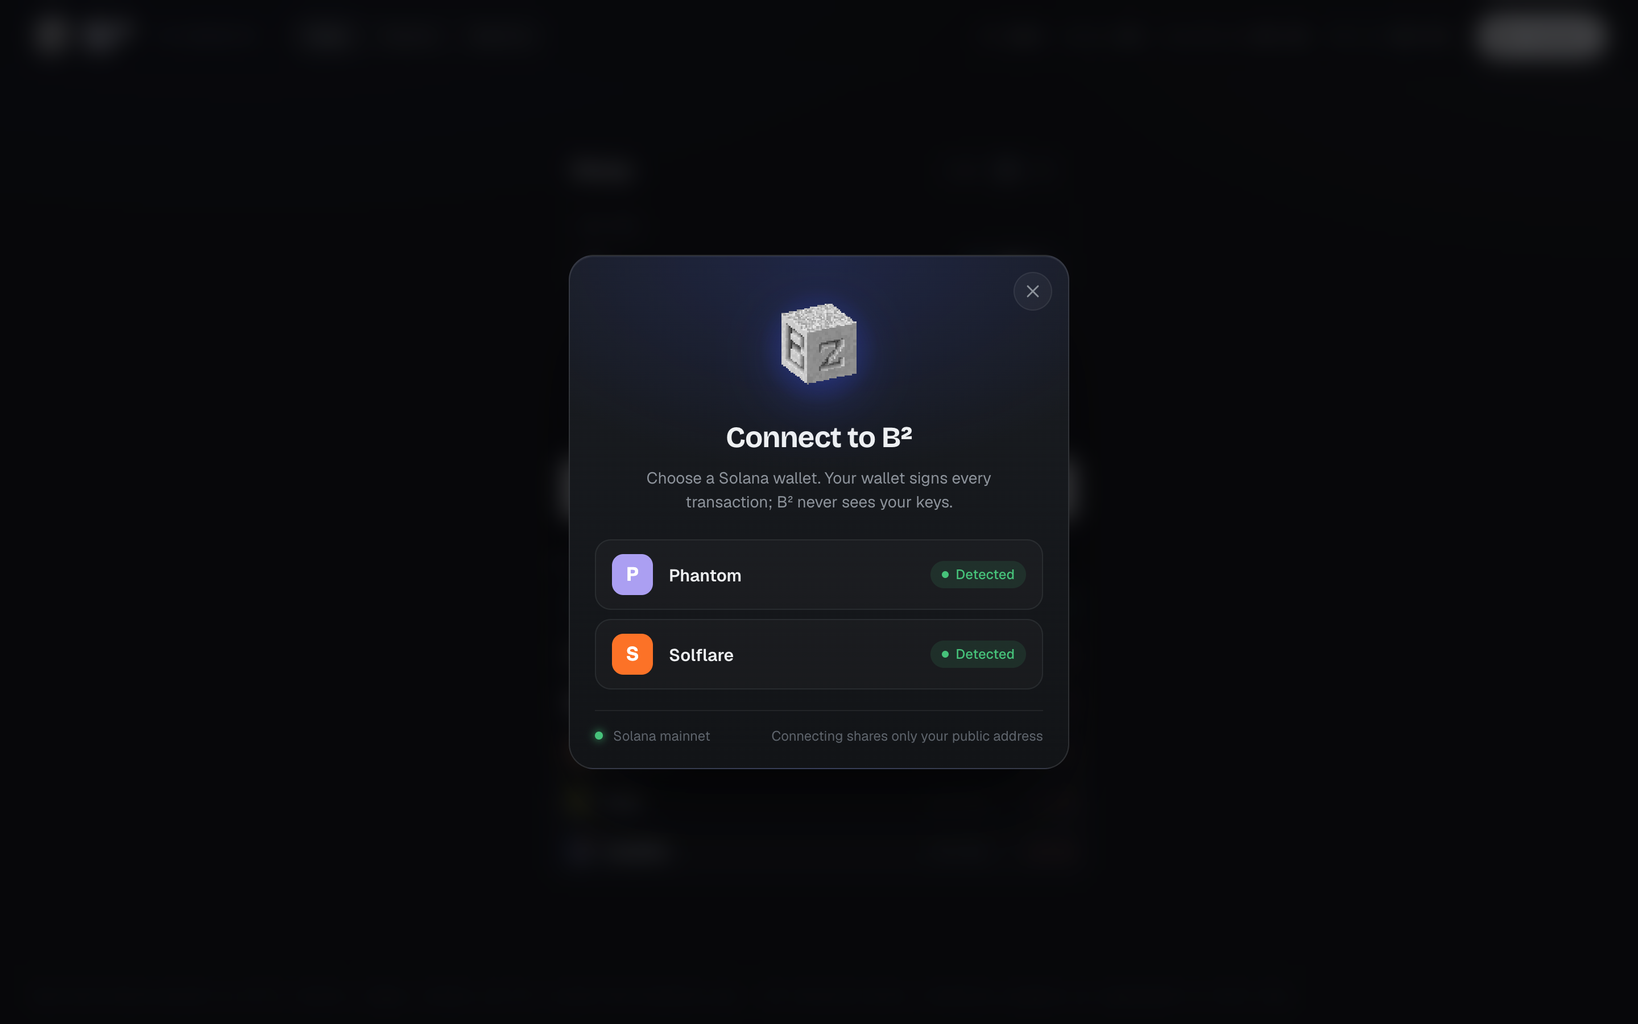
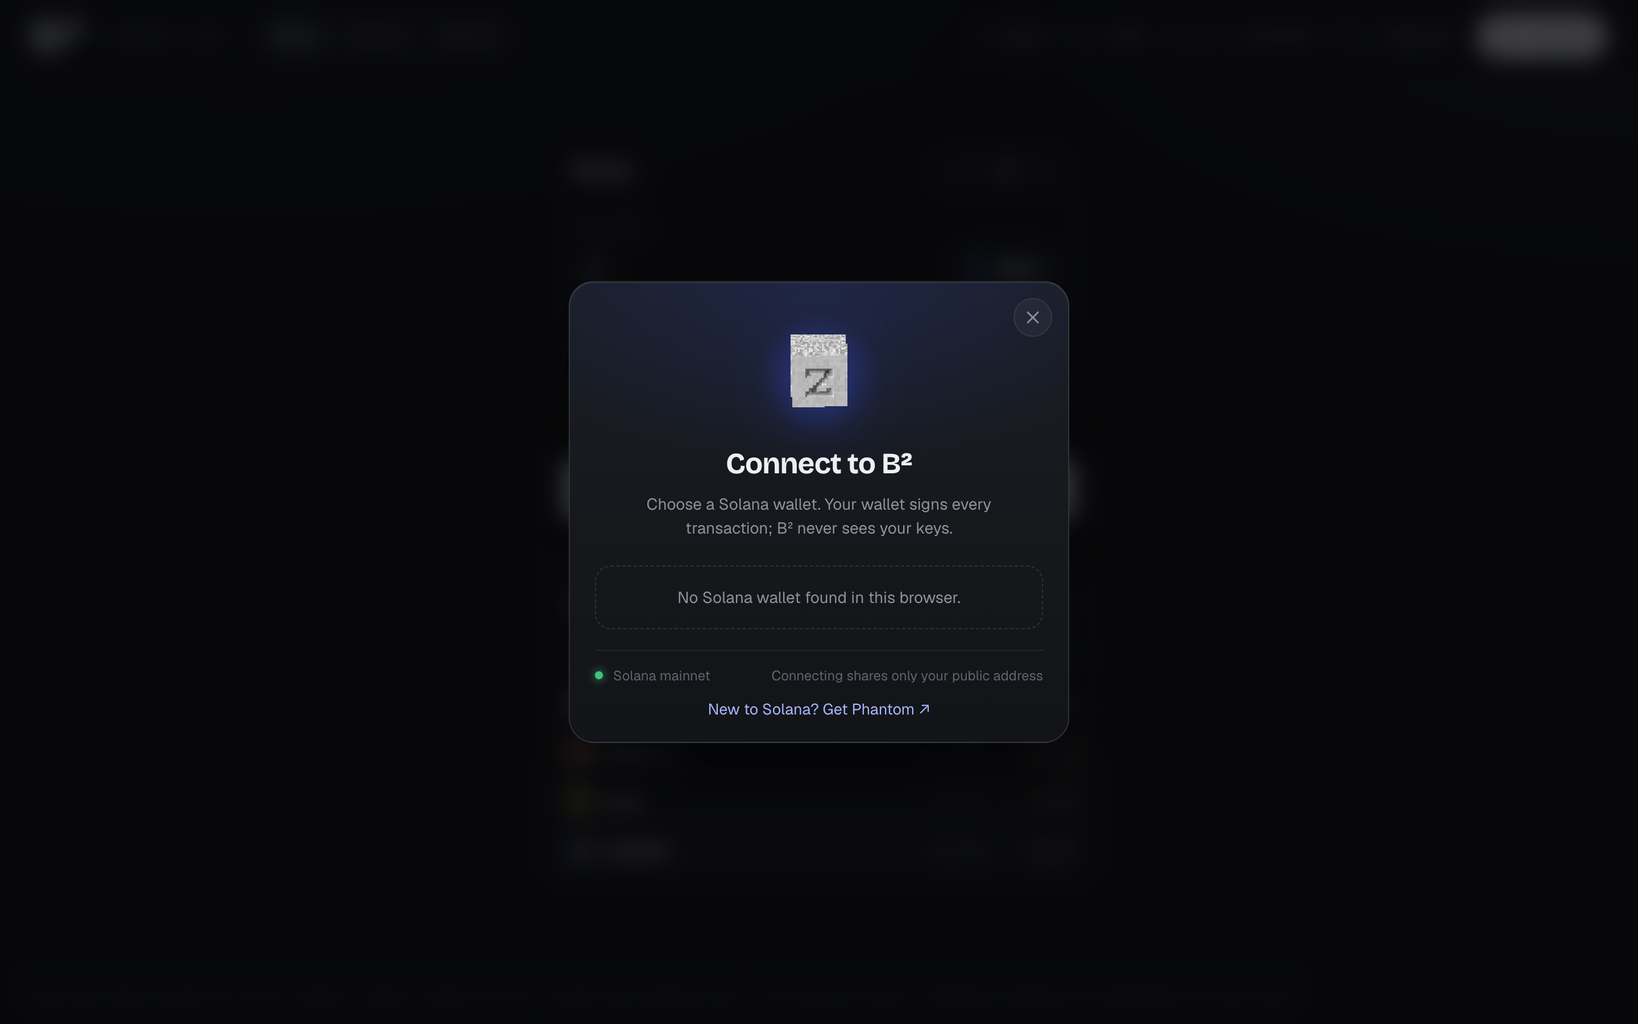
Bordrless swap: share card, GitHub link, swap-first README
- The share card: og.png (1200x630) and Open Graph and X tags for bordrswap.vercel.app, with the
  title, a description and the image.
- An "Open source on GitHub" link in the footer's corner.
- Bordrless swap as the lead: the page title and header, the wordmark alone in the header (the cube
  appears on Connect and in the wallet box), the README led by the swap with fresh screenshots and a
  token page.

Claude-Session: https://claude.ai/code/session_013yRJukaEh94DENhGaGXhU1

diff --git a/apps/web/index.html b/apps/web/index.html
@@ -3,9 +3,25 @@
   <head>
     <meta charset="UTF-8" />
     <meta name="viewport" content="width=device-width, initial-scale=1.0" />
-    <title>B² · Bordrless swap and scanner</title>
+    <title>B² · Swap every Bordrless token</title>
     <link rel="icon" href="/b2.svg" />
     <meta name="theme-color" content="#0b0c0e" />
+    <meta name="description" content="Swap any Bordrless token on Solana through the best pool, every fee shown before you sign. A live scanner and machine view of every coin. Open source." />
+    <link rel="canonical" href="https://bordrswap.vercel.app/" />
+    <meta property="og:type" content="website" />
+    <meta property="og:site_name" content="B²" />
+    <meta property="og:url" content="https://bordrswap.vercel.app/" />
+    <meta property="og:title" content="B² · Swap every Bordrless token" />
+    <meta property="og:description" content="Any token to any token through the best pool, every fee shown before you sign. A live scanner and machine view of every coin. Open source." />
+    <meta property="og:image" content="https://bordrswap.vercel.app/og.png" />
+    <meta property="og:image:width" content="1200" />
+    <meta property="og:image:height" content="630" />
+    <meta property="og:image:alt" content="B²: swap every Bordrless token. A swap quoting 1 SOL into a Bordrless coin, with every fee on the way." />
+    <meta name="twitter:card" content="summary_large_image" />
+    <meta name="twitter:title" content="B² · Swap every Bordrless token" />
+    <meta name="twitter:description" content="Any token to any token through the best pool, every fee shown before you sign. A live scanner and machine view of every coin." />
+    <meta name="twitter:image" content="https://bordrswap.vercel.app/og.png" />
+    <meta name="twitter:image:alt" content="B²: swap every Bordrless token." />
     <link rel="preconnect" href="https://fonts.googleapis.com" />
     <link rel="preconnect" href="https://fonts.gstatic.com" crossorigin />
     <link href="https://fonts.googleapis.com/css2?family=Bricolage+Grotesque:opsz,wdth,wght@12..96,75..100,400..800&family=Geist:wght@400;500;600;700&family=IBM+Plex+Mono:wght@400;500;600&display=swap" rel="stylesheet" />

diff --git a/apps/web/src/App.tsx b/apps/web/src/App.tsx
@@ -48,7 +48,7 @@ export function App() {
               <header className="top">
                 <NavLink to="/" className="brand">
                   <Logo />
-                  <small>on Bordrless</small>
+                  <small>Bordrless swap</small>
                 </NavLink>
                 <nav className="nav">
                   <NavLink to="/" end>
@@ -72,6 +72,12 @@ export function App() {
               <footer className="foot">
                 <span>Read from Solana mainnet by the B² indexer; images, holders and 24 h volume from bordrless.app.</span>
                 <span>Not financial advice. Bordrless programs are upgradeable by their team.</span>
+                <a className="foot-gh" href="https://github.com/cloutprotocol/B2" target="_blank" rel="noopener noreferrer">
+                  <svg viewBox="0 0 16 16" width="14" height="14" fill="currentColor" aria-hidden="true">
+                    <path d="M8 0C3.58 0 0 3.58 0 8c0 3.54 2.29 6.53 5.47 7.59.4.07.55-.17.55-.38 0-.19-.01-.82-.01-1.49-2.01.37-2.53-.49-2.69-.94-.09-.23-.48-.94-.82-1.13-.28-.15-.68-.52-.01-.53.63-.01 1.08.58 1.23.82.72 1.21 1.87.87 2.33.66.07-.52.28-.87.51-1.07-1.78-.2-3.64-.89-3.64-3.95 0-.87.31-1.59.82-2.15-.08-.2-.36-1.02.08-2.12 0 0 .67-.21 2.2.82.64-.18 1.32-.27 2-.27.68 0 1.36.09 2 .27 1.53-1.04 2.2-.82 2.2-.82.44 1.1.16 1.92.08 2.12.51.56.82 1.27.82 2.15 0 3.07-1.87 3.75-3.65 3.95.29.25.54.73.54 1.48 0 1.07-.01 1.93-.01 2.2 0 .21.15.46.55.38A8.013 8.013 0 0016 8c0-4.42-3.58-8-8-8z" />
+                  </svg>
+                  Open source on GitHub
+                </a>
               </footer>
             </div>
           </MarketProvider>

diff --git a/apps/web/src/components/Logo.tsx b/apps/web/src/components/Logo.tsx
@@ -1,6 +1,6 @@
-// The B² mark: the spinning cube from the film beside a cut wordmark: a heavy geometric B drawn as
-// paths (no font to wait for), sliced on the diagonal with its lower half slipped along the cut, a
-// spot-blue hairline in the cut, and the ² set in a block.
+// The B² mark: a cut wordmark, a heavy geometric B drawn as paths (no font to wait for), sliced on the
+// diagonal with its lower half slipped along the cut, a spot-blue hairline in the cut, and the ² set in
+// a block. The spinning cube from the film appears once per screen: on Connect and in the wallet box.
 
 export function Cube({ size = 36, big }: { size?: number; big?: boolean }) {
   return <img src={big ? '/b2-cube.gif' : '/b2-cube-160.gif'} width={size} height={size} alt="" className="cube" />;
@@ -38,8 +38,7 @@ export function Wordmark({ height = 30 }: { height?: number }) {
 export function Logo() {
   return (
     <span className="logo">
-      <Cube size={38} />
-      <Wordmark height={26} />
+      <Wordmark height={28} />
     </span>
   );
 }

diff --git a/apps/web/src/pages/Machine.tsx b/apps/web/src/pages/Machine.tsx
@@ -4,7 +4,6 @@ import { usePoll, type MachineData, type Trade } from '../api';
 import { age, compact, short, sol } from '../format';
 import { SwapCard, type Swapped } from '../components/SwapCard';
 import { TokenIcon } from '../components/TokenIcon';
-import { Cube } from '../components/Logo';
 
 // The machine view, live, for any token: its latest trades on the chart, and every trade's money
 // running to where the coin's rules send it (the hook, the creator fee, holders, the burn, its
@@ -558,7 +557,7 @@ export function MachinePage() {
   return (
     <div>
       <div className="machine-hero">
-        {t.b2 ? <Cube size={64} big /> : <TokenIcon src={t.image} symbol={t.symbol} size={56} />}
+        <TokenIcon src={t.image} symbol={t.symbol} size={56} />
         <div>
           <h1>
             {t.name} <span className="muted" style={{ fontWeight: 500 }}>machine</span>

diff --git a/apps/web/src/styles.css b/apps/web/src/styles.css
@@ -64,6 +64,9 @@ input { font: inherit; color: inherit; }
 .ticker b { color: var(--ink-2); font-weight: 500; }
 main { flex: 1; padding: 28px; width: 100%; max-width: 1480px; margin: 0 auto; }
 .foot { padding: 18px 28px; border-top: 1px solid var(--line); font-family: var(--mono); font-size: 11px; color: var(--soft); display: flex; gap: 16px; flex-wrap: wrap; }
+/* the repo, in the footer's bottom-right corner */
+.foot-gh { margin-left: auto; display: inline-flex; align-items: center; gap: 7px; color: var(--ink-2); text-decoration: none; }
+.foot-gh:hover { color: var(--ink); }
 
 /* Wallet button in the house style. */
   background: var(--ink) !important; color: #0b0c0e !important; font-weight: 600 !important; }

diff --git a/README.md b/README.md
@@ -4,23 +4,24 @@
 
 # B²
 
-**A Bordrless Workshop pair that turns every trade into BORDR liquidity, and the open-source app around it:
-a swap for the whole Bordrless ecosystem, a market scanner, and a live machine view of every coin's rules.**
+**The swap for the whole Bordrless ecosystem. Any token to any token, routed across every pool and built
+with the Bordrless SDK, with a market scanner and a live machine view of every coin beside it. B², our
+Workshop pair that turns trades into BORDR liquidity, is part of it.**
 
 [![License: MIT](https://img.shields.io/badge/license-MIT-3b55ff.svg)](LICENSE)
-[![Solana mainnet](https://img.shields.io/badge/Solana-mainnet-14f195.svg)](https://solscan.io/account/5HZP9Nn6ScGzduvsadvDEUuZnz5Xz7yynzxuxPRHmnre)
-[![Bordrless Workshop](https://img.shields.io/badge/Bordrless-Workshop%20pair-8a9bff.svg)](https://bordrless.app)
-[![Anchor 1.2](https://img.shields.io/badge/Anchor-1.2-eef0f2.svg)](programs/b2)
+[![Solana mainnet](https://img.shields.io/badge/Solana-mainnet-14f195.svg)](https://bordrless.app)
+[![Bordrless DEX](https://img.shields.io/badge/Bordrless-DEX%20and%20router-8a9bff.svg)](packages/core/src/route.ts)
 [![TypeScript](https://img.shields.io/badge/TypeScript-5.6-3178c6.svg)](packages/core)
 [![Node 22+](https://img.shields.io/badge/node-%E2%89%A522-46c27a.svg)](package.json)
+[![Anchor 1.2](https://img.shields.io/badge/Anchor-1.2-eef0f2.svg)](programs/b2)
 
 [![Deploy with Vercel](https://vercel.com/button)](https://vercel.com/new/clone?repository-url=https%3A%2F%2Fgithub.com%2Fcloutprotocol%2FB2&env=B2_RPC&envDescription=A%20Solana%20mainnet%20RPC%20URL%20that%20serves%20getProgramAccounts&project-name=b2)
 
 <br />
 
-<img src="docs/media/machine.png" alt="The B² machine view: live trades on the chart flowing into the hook, the creator fee and the companion's pot" width="100%" />
+<img src="docs/media/swap.png" alt="The B² swap: 1 SOL quoted into a Bordrless coin, with the route, every fee on the way, price impact and the minimum received" width="100%" />
 
-<sub>The machine view: every trade's money, live from chain, running to where the coin's rules send it.</sub>
+<sub>Every quote shows its route, each fee on the way (a coin's hook included), price impact and the minimum received.</sub>
 
 </div>
 
@@ -28,75 +29,77 @@ a swap for the whole Bordrless ecosystem, a market scanner, and a live machine v
 
 ## Contents
 
-- [What B² is](#what-b-is)
-- [How the pair works](#how-the-pair-works)
+- [What it is](#what-it-is)
+- [How swaps work](#how-swaps-work)
 - [The app](#the-app)
 - [Architecture](#architecture)
 - [Quick start](#quick-start)
 - [Configuration](#configuration)
 - [Deploy](#deploy)
 - [How it reads the chain](#how-it-reads-the-chain)
-- [Swaps](#swaps)
-- [The program](#the-program)
+- [The B² pair](#the-b-pair)
 - [Project layout](#project-layout)
 - [Security model](#security-model)
 - [Contributing](#contributing)
 - [License](#license)
 
-## What B² is
+## What it is
 
-[Bordrless](https://bordrless.app) is a Solana launchpad and DEX where a coin can carry a **hook** (rules that run on
-every trade) and a **companion script** (a program that acts for the coin on a schedule). Together they make a
-Workshop **pair**.
-
-B² is such a pair. It takes a 1% SOL cut on every curve trade, buys the coin with it under a price guard, and at
-graduation seeds two pools with the LP locked inside the launch: coin/SOL and coin/wBORDR. Every B² coin that
-graduates adds permanent BORDR liquidity.
-
-This repository holds the pair itself and everything we built around it, all of it open source:
+[Bordrless](https://bordrless.app) is a Solana launchpad and DEX with its own token standard, where a coin can carry a
+**hook** (rules that run on every trade) and a **companion script** (a program that acts for the coin on a schedule).
+Bordrless ships a launchpad; this is the trading layer for everything on it:
 
 | | |
 | --- | --- |
-| **The pair** | the hook and companion script, as submitted to the Workshop and deployed on mainnet, with LiteSVM tests against the real Bordrless programs |
-| **The indexer** | a server that reads the whole Bordrless market from chain, enriches it, prepares swaps and proxies wallet RPC |
-| **The app** | Swap, Scanner, token pages and the Machine view, for any Bordrless coin, not only B² |
+| **The swap** | any Bordrless token to any other: every curve and pool, one hop through a shared token when no pool joins the two, hooks and wrapping resolved, and an optional integrator fee through Bordrless's router |
+| **The scanner** | every token and pool on the DEX, read from chain: price, market cap, liquidity, volume, holders, curve progress |
+| **The machine view** | any coin's rules drawn live: where each trade's money goes, with a trade box to watch your own run through it |
+| **The B² pair** | our Workshop hook and companion: a 1% SOL cut on every curve trade that buys the coin and, at graduation, seeds coin/SOL and coin/wBORDR with the LP locked |
+| **The indexer** | the server behind it all: reads the market, prepares swaps and proxies wallet RPC so the RPC key stays server-side |
 
-## How the pair works
+## How swaps work
 
-```mermaid
-flowchart LR
-    T[Every curve trade] -->|1% SOL cut| H[B² hook]
-    H --> P[(Pot)]
-    P -->|every 60 s, under the +3% guard| B[Companion buys the coin]
-    B --> C[(Held coin)]
-    D{Price over 15% under<br/>its 6 h reference?} -.->|buys pay 0%, sells 3%| H
-    P & C -->|at graduation| G[coin/SOL and coin/wBORDR<br/>LP locked in the launch]
-```
+Any token to any token (`packages/core/src/route.ts`, served as `/api/route/quote` and `/api/route/prepare`):
 
-- **The cut.** The hook takes 1% of every curve trade, in SOL, into the companion's pot.
-- **The buy.** Every 60 seconds the companion steps. Before graduation it buys and holds the coin, dips first, and
-  only while the price is under its one-hour reference plus 3%, so it never chases a pump. At most half the pot
-  goes on buys.
-- **Dip Buy.** When the price falls more than 15% under its six-hour reference, buyers pay no hook fee and sellers
-  pay 3%, which leans the curve toward recovery.
-- **Graduation.** The pot and the held coin seed coin/SOL and coin/wBORDR, with the LP locked in the launch for
-  good.
+- **Routes.**
+  - Every direct pool, and every path through one token both sides trade against (SOL, wBORDR, anything). The best
+    output wins.
+  - A two-leg route is one transaction when it fits in 1,232 bytes; otherwise one per leg, signed as a batch. The
+    second leg spends what the first is sure to deliver.
+- **Legs**, all built here with the SDK:
+  - a launch's curve or pool, through its launch keys (kit, custom hook and SOL cut resolved);
+  - any other pool, with each side's token hook and its pool hook resolved;
+  - a pool quoted in bridged SOL, which wraps the input and unwraps what it delivers.
+- **Quotes.**
+  - Constant product on each pool's books, with that side's fees. For a launch: its whole buy or sell fee plus its
+    hook's cut from the Workshop reading. For a pool: its LP and protocol fee.
+  - Slippage sets each leg's minimum, which also protects a trade through a hook that publishes no reading.
+- **The router fee** (optional, `B2_FEE_WALLET`).
+  - The leg that moves SOL goes through Bordrless's router: a buy pays from its input, a sell from the SOL it
+    delivers.
+  - Native pools pay it in SOL. Pools quoted in bridged SOL pay it in bridged SOL, once the fee wallet has a bridged
+    SOL holding.
+- **Fallback.** If a single launch leg can't be built here, Bordrless's own `/api/swap/prepare` builds it.
 
-The first B² coin is
-[`4iWwcHf9…bps6H7J`](https://solscan.io/token/4iWwcHf9tH6J6UjRgG9rXosXVxNdcKUFuqh1rbps6H7J).
+`packages/core/scripts/simulate-routes.ts` builds real routes and simulates them on mainnet for wallets that can
+afford them: launches with every kind of rule (a kit, a burn, a game hook, a custom hook, B²'s pair), plain pools,
+pools quoted in bridged SOL, another program's curve, and a token-to-token route through SOL, with and without the
+router fee.
 
 ## The app
 
-| Machine | Scanner |
+| Scanner | Token |
 | --- | --- |
-| <img src="docs/media/machine.png" alt="Machine view" /> | <img src="docs/media/scanner.png" alt="Scanner" /> |
-| **Swap** | **Connect** |
-| <img src="docs/media/swap.png" alt="Swap" /> | <img src="docs/media/connect.png" alt="Wallet connect" /> |
+| <img src="docs/media/scanner.png" alt="Scanner" /> | <img src="docs/media/token.png" alt="A token page with its chart, trades and a trade box" /> |
+| **Machine** | **Connect** |
+| <img src="docs/media/machine.png" alt="Machine view" /> | <img src="docs/media/connect.png" alt="Wallet connect" /> |
 
 - **Swap.** Any Bordrless token to any other, routed through the best direct pool or one hop. Quotes and
-  transactions are built here with the Bordrless SDK, and the wallet signs.
+  transactions are built here with the Bordrless SDK, and the wallet signs. Every page that shows a token can trade
+  it.
 - **Scanner.** Every token and pool on the Bordrless DEX: price, market cap, liquidity, 24 h volume, holders, curve
   progress. Filter by curve, graduated, B², custom hooks or bridged tokens.
+- **Token pages.** A chart, the latest trades, the coin's fees, hook and pools, and a trade box beside them.
 - **Machine.** Any coin's rules drawn as a machine: its last 40 trades on the chart, and every trade's money running
   to the hook, the creator fee, holders, the burn and its companion. B² coins add the pot, its floor and the held
   coin. Your own trades join the drawing as soon as they confirm. On a phone it reflows into a tall layout.
@@ -151,7 +154,7 @@ npm run dev               # indexer on :8787, web on http://localhost:5173
 | --- | --- | --- | --- |
 | `B2_RPC` | yes | | Solana mainnet RPC URL. It must serve `getProgramAccounts` and version 1 transactions. |
 | `PORT` | | `8787` | The indexer's port (server mode). |
-| `B2_FEE_WALLET` | | | Turns on the router's integrator fee, paid to this wallet. It must hold rent (about 0.001 SOL). |
+| `B2_FEE_WALLET` | | | Turns on the router's integrator fee, paid to this wallet. It must hold rent (about 0.001 SOL); pools quoted in bridged SOL carry it once the wallet has a bridged SOL holding. |
 | `B2_FEE_BPS` | | `50` | The integrator fee, 1 to 100 basis points. Bordrless keeps a fifth. |
 | `B2_INDEXER` | | `http://localhost:8787` | Where the Vite dev server proxies `/api` and `/rpc`. |
 
@@ -189,33 +192,32 @@ and `/rpc` routed to it.
 - **From bordrless.app/api** (public, no key): images, holders, 24 h volume and change, the rules, candles and
   trades.
 
-## Swaps
+## The B² pair
 
-Any token to any token (`packages/core/src/route.ts`, served as `/api/route/quote` and `/api/route/prepare`):
+B² is the Workshop pair we built and Bordrless deployed. The swap trades its coins like any other, showing the hook's
+cut in the quote, and the machine view draws its pot, floor and held coin.
 
-- **Routes.**
-  - Every direct pool, and every path through one token both sides trade against (SOL, wBORDR, anything). The best
-    output wins.
-  - A two-leg route is one transaction when it fits in 1,232 bytes; otherwise one per leg, signed as a batch. The
-    second leg spends what the first is sure to deliver.
-- **Legs**, all built here with the SDK:
-  - a launch's curve or pool, through its launch keys (kit, custom hook and SOL cut resolved);
-  - any other pool, with each side's token hook and its pool hook resolved;
-  - a pool quoted in bridged SOL, which wraps the input and unwraps what it delivers.
-- **Quotes.**
-  - Constant product on each pool's books, with that side's fees. For a launch: its whole buy or sell fee plus its
-    hook's cut from the Workshop reading. For a pool: its LP and protocol fee.
-  - Slippage sets each leg's minimum, which also protects a trade through a hook that publishes no reading.
-- **The router fee** (optional, `B2_FEE_WALLET`).
-  - The leg that moves SOL goes through Bordrless's router: a buy pays from its input, a sell from the SOL it
-    delivers.
-  - Native pools pay it in SOL. Pools quoted in bridged SOL pay it in bridged SOL, once the fee wallet has a bridged
-    SOL holding.
-- **Fallback.** If a single launch leg can't be built here, Bordrless's own `/api/swap/prepare` builds it.
+```mermaid
+flowchart LR
+    T[Every curve trade] -->|1% SOL cut| H[B² hook]
+    H --> P[(Pot)]
+    P -->|every 60 s, under the +3% guard| B[Companion buys the coin]
+    B --> C[(Held coin)]
+    D{Price over 15% under<br/>its 6 h reference?} -.->|buys pay 0%, sells 3%| H
+    P & C -->|at graduation| G[coin/SOL and coin/wBORDR<br/>LP locked in the launch]
+```
 
-`packages/core/scripts/simulate-routes.ts` builds real routes and simulates them on mainnet.
+- **The cut.** The hook takes 1% of every curve trade, in SOL, into the companion's pot.
+- **The buy.** Every 60 seconds the companion steps. Before graduation it buys and holds the coin, dips first, and
+  only while the price is under its one-hour reference plus 3%, so it never chases a pump. At most half the pot
+  goes on buys.
+- **Dip Buy.** When the price falls more than 15% under its six-hour reference, buyers pay no hook fee and sellers
+  pay 3%, which leans the curve toward recovery.
+- **Graduation.** The pot and the held coin seed coin/SOL and coin/wBORDR, with the LP locked in the launch for
+  good.
 
-## The program
+The first B² coin is
+[`4iWwcHf9…bps6H7J`](https://solscan.io/token/4iWwcHf9tH6J6UjRgG9rXosXVxNdcKUFuqh1rbps6H7J).
 
 | | Mainnet |
 | --- | --- |
@@ -228,11 +230,11 @@ build under. Build, test and the Workshop's source rules: [`programs/b2/README.m
 ## Project layout
 
 ```
-programs/b2       the Workshop pair (Rust, Anchor 1.2): hook/, script/, submission/, LiteSVM tests/, fixtures/
-packages/core     chain reads: pools, mints, launches, bridged tokens, B²'s state, routing
+packages/core     routing and chain reads: route.ts (quotes, legs, the router fee), pools, mints, launches, B²'s state
 apps/indexer      app.ts (the API and the RPC proxy), main.ts (server), vercel.ts (function)
 apps/web          Swap, Scanner, token pages, Machine view, wallet connect (React, Vite)
 scripts           dev.mjs (both apps), vercel-build.mjs, fix-bordrless-packages.mjs
+programs/b2       the B² pair (Rust, Anchor 1.2): hook/, script/, submission/, LiteSVM tests/, fixtures/
 docs/media        the screenshots in this README
 ```
 
@@ -247,7 +249,7 @@ docs/media        the screenshots in this README
     that scans.
 - **Trust.**
   - Bordrless programs are upgradeable by their team.
-  - The pair's numbers (the cut, the guard, Dip Buy) are fixed in its deployed code.
+  - The B² pair's numbers (the cut, the guard, Dip Buy) are fixed in its deployed code.
   - Nothing here is financial advice.
 
 To report a vulnerability, see [SECURITY.md](SECURITY.md).

diff --git a/SECURITY.md b/SECURITY.md
@@ -7,7 +7,7 @@ Please report vulnerabilities privately through GitHub's
 public issue.
 
 Include:
-- what is affected (the program, the indexer or the web app);
+- what is affected (the swap's routing and transaction building, the indexer, the web app, or the B² pair);
 - how to reproduce it;
 - the impact you expect.
 
@@ -16,9 +16,10 @@ We'll acknowledge the report, work on a fix, and credit you if you'd like.
 ## Scope
 
 - **In scope:**
-  - `programs/b2`, the hook and companion script;
+  - the swap: routing, quotes and the transactions `packages/core` builds;
   - the indexer's API and its RPC proxy;
-  - the web app's transaction building and wallet flow.
+  - the web app's wallet flow;
+  - `programs/b2`, the B² hook and companion script.
 - **Out of scope:** the Bordrless programs themselves (report those to Bordrless), third-party wallets, and RPC
   providers.
 

diff --git a/CONTRIBUTING.md b/CONTRIBUTING.md
@@ -10,7 +10,10 @@ npm install               # Node 22+
 npm run dev               # indexer on :8787, web on http://localhost:5173
 ```
 
-The program (`programs/b2`) has its own toolchain (Rust, Anchor 1.2, Agave's `cargo build-sbf`); see
+Swap changes can be checked against mainnet without signing: `B2_RPC=<url> npx tsx packages/core/scripts/simulate-routes.ts`
+simulates real routes for wallets that can afford them.
+
+The B² pair (`programs/b2`) has its own toolchain (Rust, Anchor 1.2, Agave's `cargo build-sbf`); see
 [`programs/b2/README.md`](programs/b2/README.md).
 
 ## Before you open a pull request
